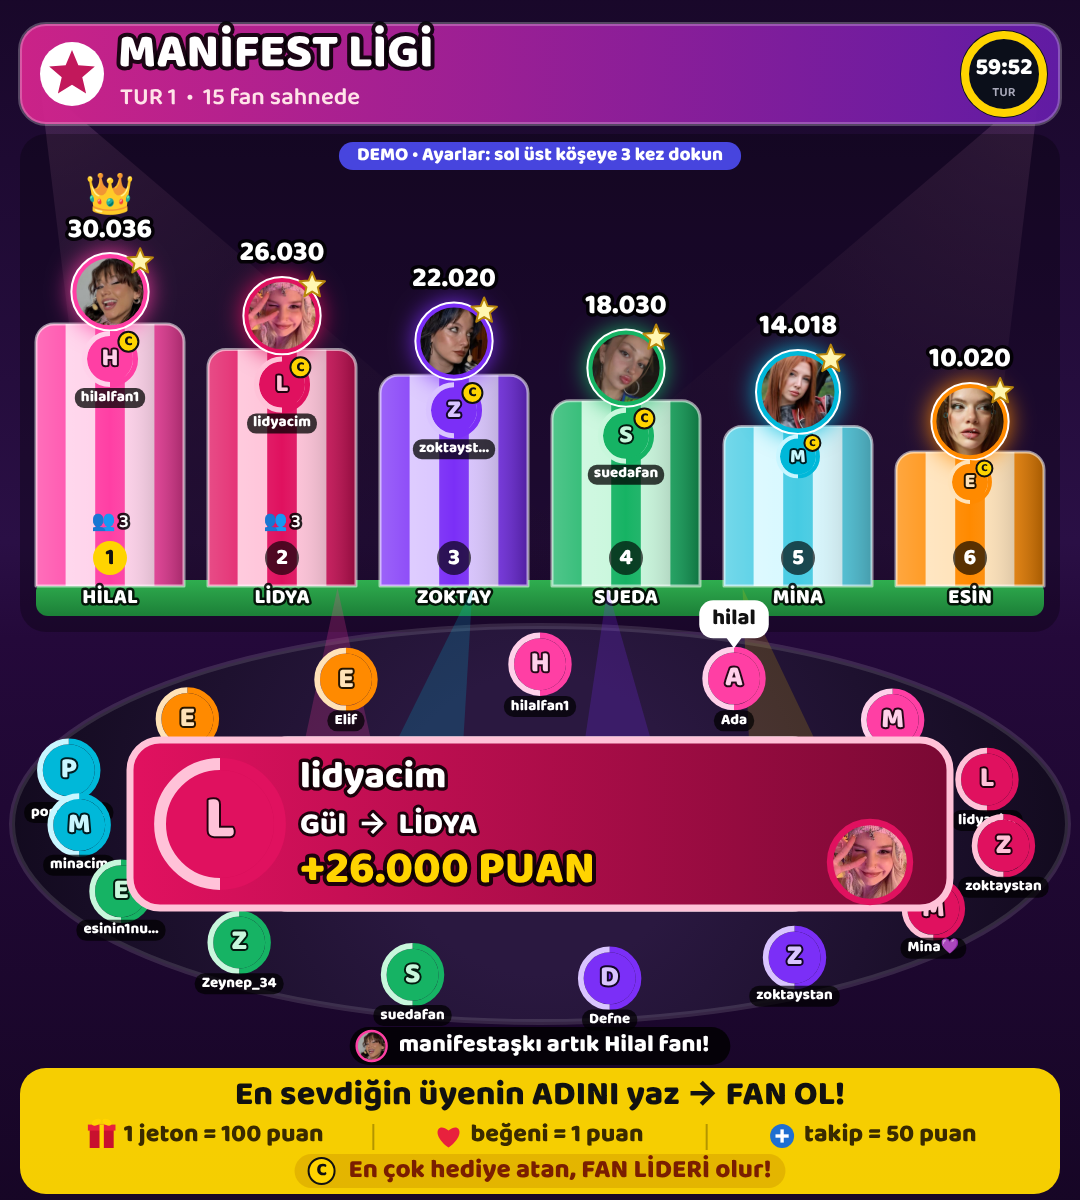
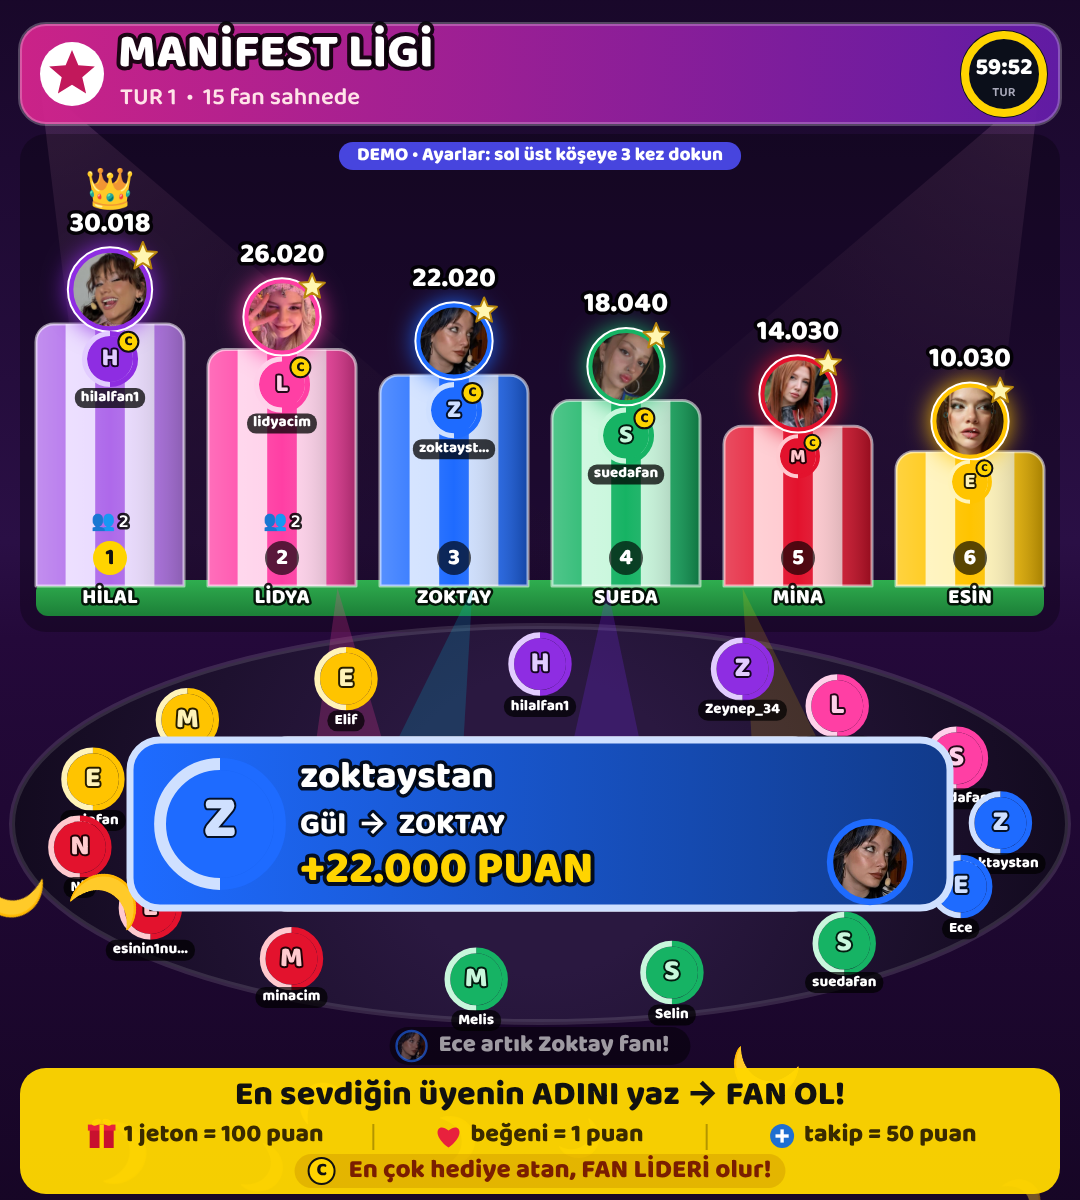
Manifest Ligi: üye renkleri güncellendi
Hilal mor, Zoktay mavi, Sueda yeşil, Esin sarı, Lidya pembe, Mina kırmızı.

Claude-Session: https://claude.ai/code/session_01PmrnuHBiJtbPnakSornUFn

diff --git a/public/core/manifest.js b/public/core/manifest.js
@@ -5,11 +5,11 @@
 import { makeRoster } from './roster.js';
 
 export const MEMBERS = [
-  { id: 'hilal', name: 'Hilal', short: 'HİLAL', code: 'H', colors: ['#ff3fa4', '#ffd1ea'], aliases: ['hilal', 'hilo'], photo: 'img/hilal.jpg' },
-  { id: 'zoktay', name: 'Zoktay', short: 'ZOKTAY', code: 'Z', colors: ['#7b2ff7', '#d9c4ff'], aliases: ['zoktay'], photo: 'img/zoktay.jpg' },
-  { id: 'mina', name: 'Mina', short: 'MİNA', code: 'M', colors: ['#00b8d9', '#c9f6ff'], aliases: ['mina'], photo: 'img/mina.jpg' },
-  { id: 'esin', name: 'Esin', short: 'ESİN', code: 'E', colors: ['#ff8a00', '#ffe2b8'], aliases: ['esin'], photo: 'img/esin.jpg' },
-  { id: 'lidya', name: 'Lidya', short: 'LİDYA', code: 'L', colors: ['#e0115f', '#ffc2d8'], aliases: ['lidya'], photo: 'img/lidya.jpg' },
+  { id: 'hilal', name: 'Hilal', short: 'HİLAL', code: 'H', colors: ['#8e2de2', '#e2ccff'], aliases: ['hilal', 'hilo'], photo: 'img/hilal.jpg' },
+  { id: 'zoktay', name: 'Zoktay', short: 'ZOKTAY', code: 'Z', colors: ['#1e6bff', '#cfe0ff'], aliases: ['zoktay'], photo: 'img/zoktay.jpg' },
+  { id: 'mina', name: 'Mina', short: 'MİNA', code: 'M', colors: ['#e3122d', '#ffc9cf'], aliases: ['mina'], photo: 'img/mina.jpg' },
+  { id: 'esin', name: 'Esin', short: 'ESİN', code: 'E', colors: ['#ffc400', '#fff3b8'], aliases: ['esin'], photo: 'img/esin.jpg' },
+  { id: 'lidya', name: 'Lidya', short: 'LİDYA', code: 'L', colors: ['#ff3fa4', '#ffd1ea'], aliases: ['lidya'], photo: 'img/lidya.jpg' },
   { id: 'sueda', name: 'Sueda', short: 'SUEDA', code: 'S', colors: ['#16b364', '#c8f7dc'], aliases: ['sueda'], photo: 'img/sueda.jpg' },
 ];
 
